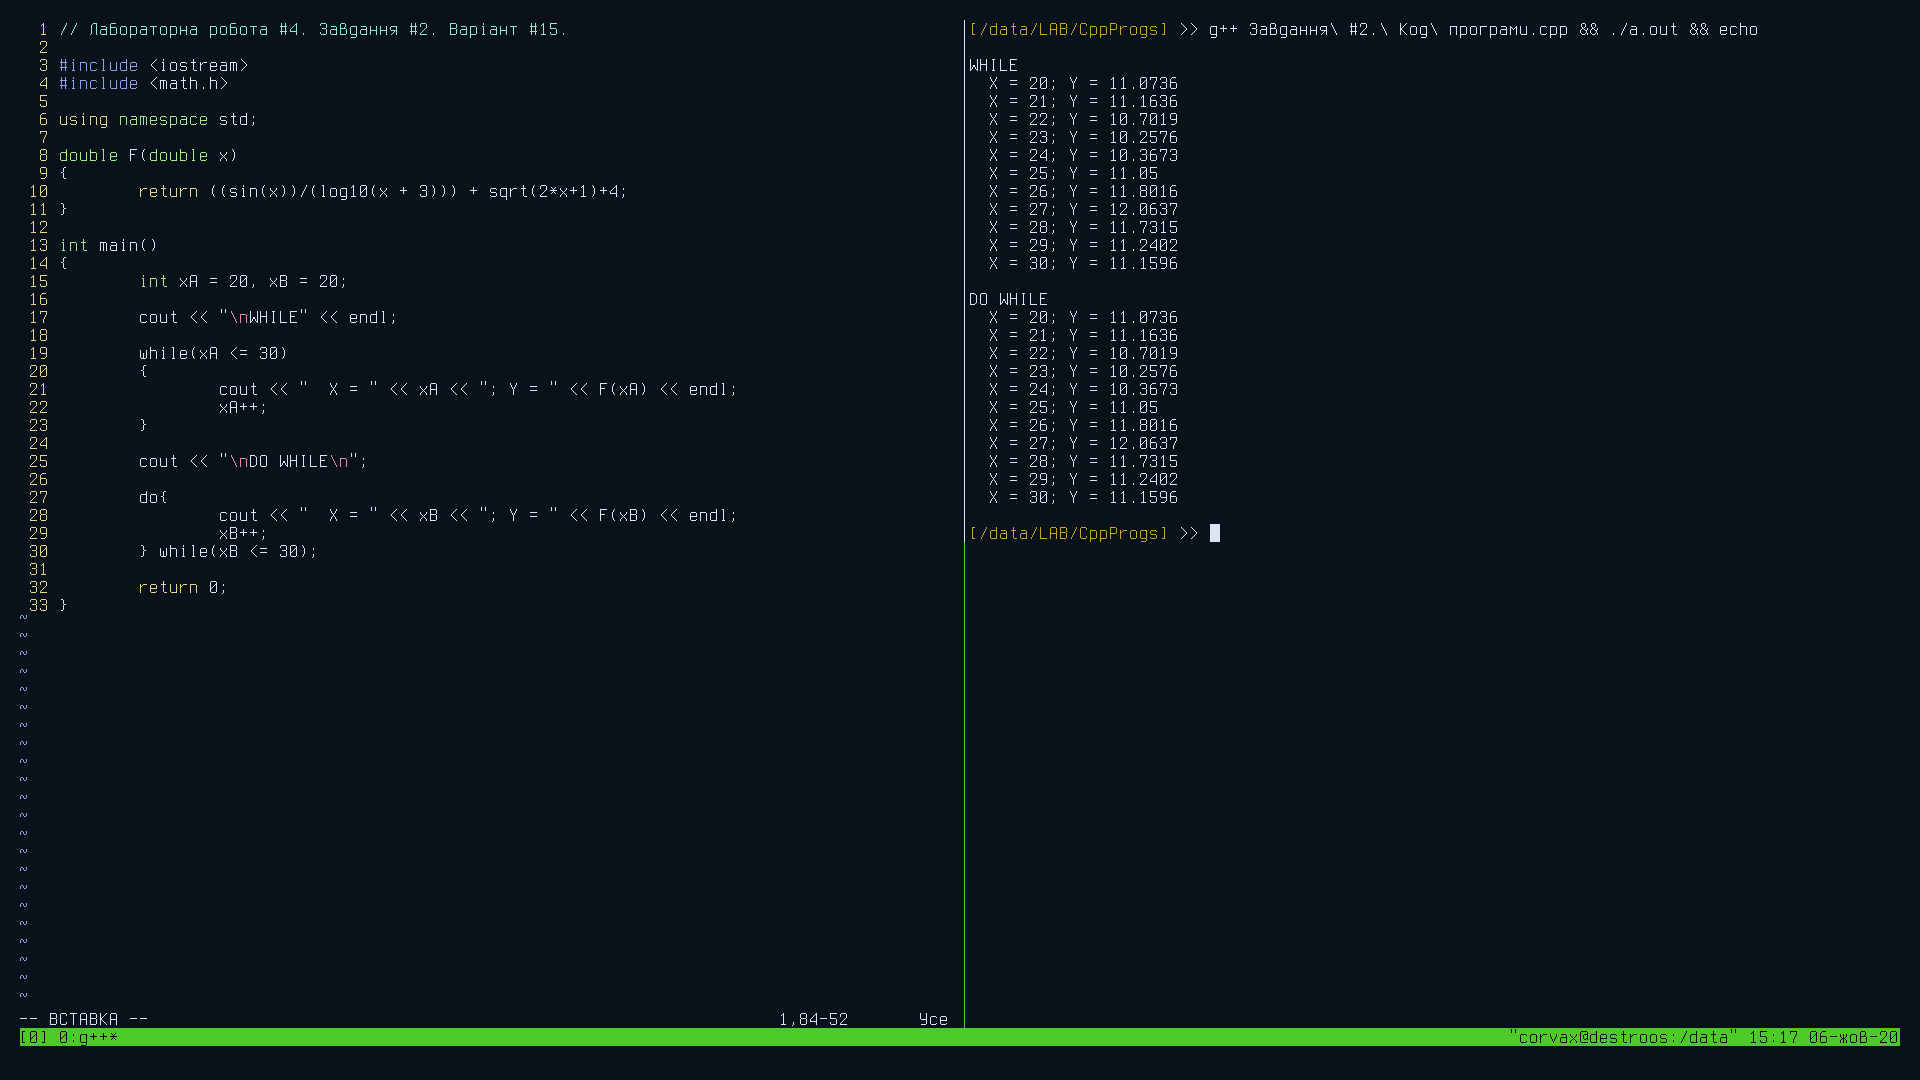
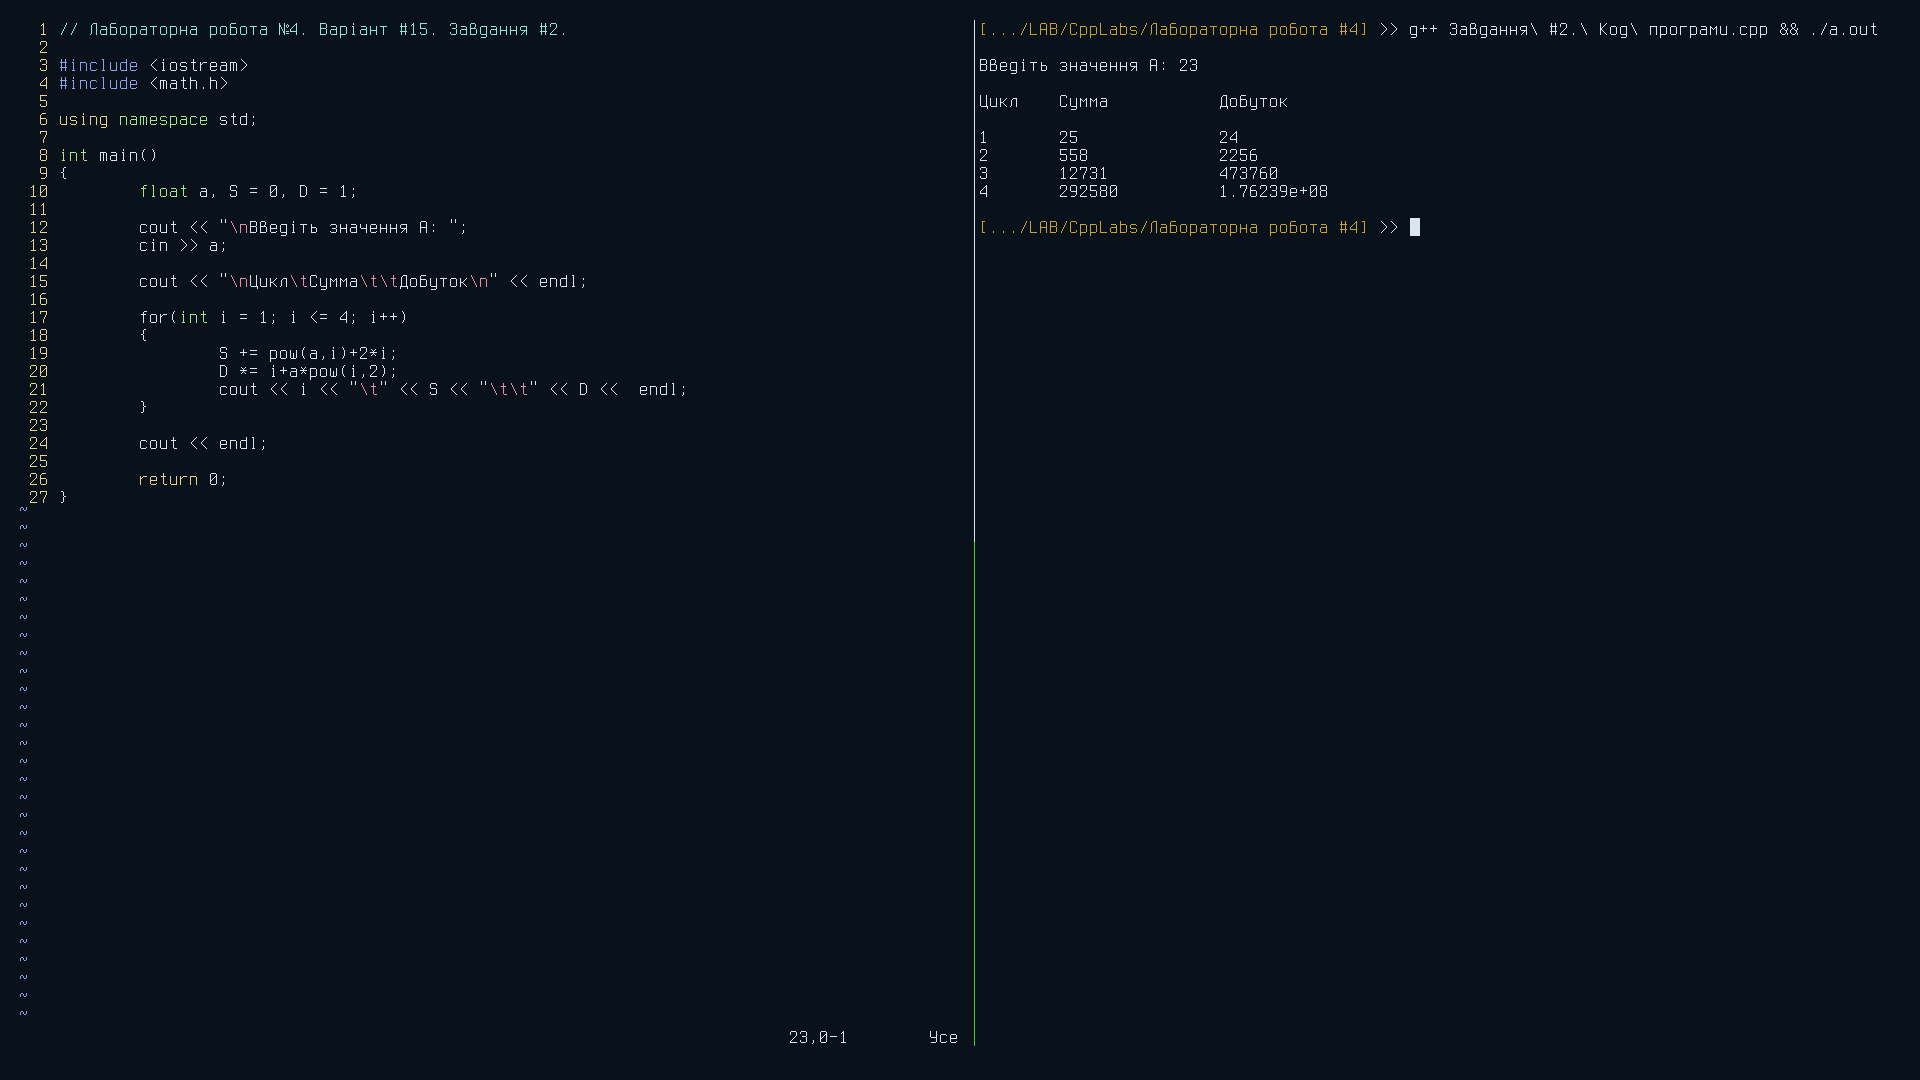
Виправлення, нова робота

diff --git a/Лабораторна робота #4/Завдання #2. Код програми.cpp b/Лабораторна робота #4/Завдання #2. Код програми.cpp
@@ -1,33 +1,27 @@
-// Лабораторна робота #4, Завдання #2. Варіант #15.
+// Лабораторна робота №4. Варіант #15. Завдання #2.
 
 #include <iostream>
 #include <math.h>
 
 using namespace std;
 
-double F(double x)
-{
-	return ((sin(x))/(log10(x + 3))) + sqrt(2*x+1)+4;
-}
-
 int main()
 {
-	int xA = 20, xB = 20;
+	float a, S = 0, D = 1;
 
-	cout << "\nWHILE" << endl;
+	cout << "\nВведіть значення A: ";
+	cin >> a;
 
-	while(xA <= 30)
+	cout << "\nЦикл\tСумма\t\tДобуток\n" << endl;
+
+	for(int i = 1; i <= 4; i++)
 	{
-		cout << "  Y = " << xA << "; Y = " << F(xA) << endl;
-		xA++;
+		S += pow(a,i)+2*i;
+		D *= i+a*pow(i,2);
+		cout << i << "\t" << S << "\t\t" << D <<  endl;
 	}
 
-	cout << "\nDO WHILE\n";
-
-	do{
-		cout << "  Y = " << xB << "; Y = " << F(xB) << endl;
-		xB++;
-	} while(xB <= 30);
+	cout << endl;
 
 	return 0;
 }

diff --git a/Лабораторна робота #4/Завдання #1. Код програми.cpp b/Лабораторна робота #4/Завдання #1. Код програми.cpp
@@ -1,0 +1,35 @@
+// Лабораторна робота #4. Варіант #15. Завдання #1.
+
+#include <iostream>
+#include <math.h>
+
+using namespace std;
+
+double F(double x)
+{
+	return ((sin(x))/(log10(x + 3))) + sqrt(2*x+1)+4;
+}
+
+int main()
+{
+	int xA = 20, xB = 20;
+
+	cout << "\nWHILE" << endl;
+
+	while(xA <= 30)
+	{
+		cout << "  Y = " << xA << "; Y = " << F(xA) << endl;
+		xA++;
+	}
+
+	cout << "\nDO WHILE\n";
+
+	do{
+		cout << "  Y = " << xB << "; Y = " << F(xB) << endl;
+		xB++;
+	} while(xB <= 30);
+
+	cout << endl;
+
+	return 0;
+}
